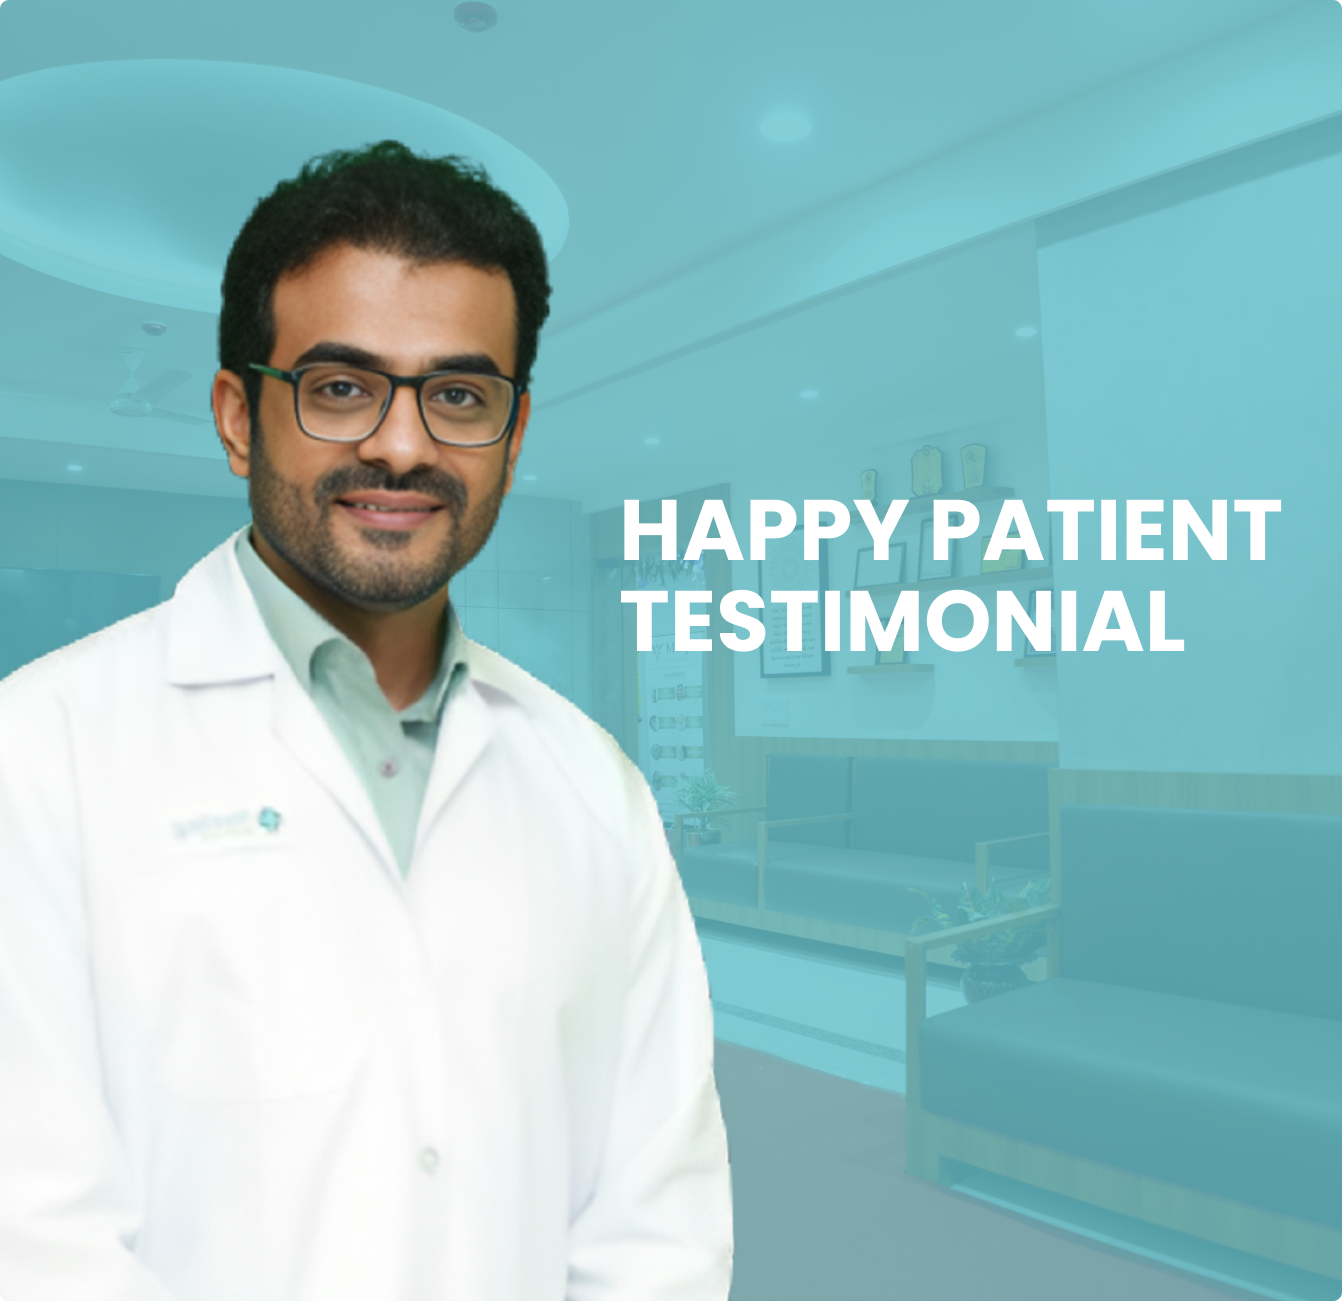
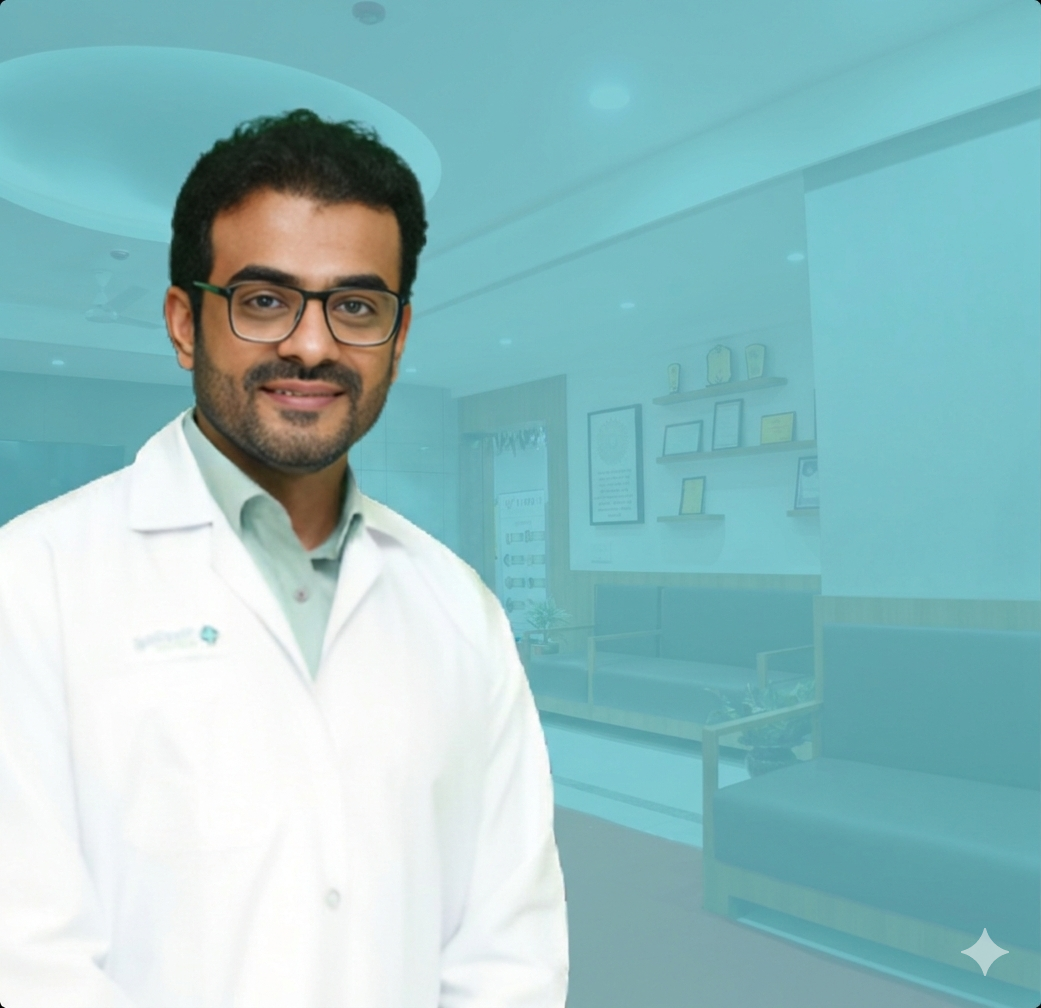
update images -sarman

Changed region(s): [[0.4611, 0.369, 0.9529, 0.5228], [0.9222, 0.9226, 0.9837, 0.9841]]

diff --git a/src/components/about/DoctorProfile.jsx b/src/components/about/DoctorProfile.jsx
@@ -1,5 +1,6 @@
 import { motion } from 'framer-motion'
 import { Award, Users, TrendingUp, Play } from 'lucide-react'
+import img from '../../assets/images/Home/Anand.webp';
 
 export default function DoctorProfile() {
   return (
@@ -15,9 +16,9 @@ export default function DoctorProfile() {
           >
             <div className="absolute -top-6 -left-6 w-full h-full bg-gradient-to-br from-[#3b9dd9]/20 to-[#58c8ca]/20 rounded-3xl -z-10"></div>
             <img
-              src="https://images.unsplash.com/photo-1612349317150-e413f6a5b16d?w=600&h=800&fit=crop"
+              src={img}
               alt="Dr. Anand"
-              className="rounded-3xl shadow-2xl w-full h-[550px] object-cover"
+              className="rounded-3xl shadow-2xl w-full h-[700px] object-cover bg-[#243949]"
             />
             <motion.div 
               className="absolute bottom-8 left-8 right-8 bg-white/95 backdrop-blur-sm p-6 rounded-2xl shadow-xl"

diff --git a/src/components/treatments/DoctorProfile.jsx b/src/components/treatments/DoctorProfile.jsx
@@ -1,5 +1,6 @@
 import { motion } from 'framer-motion'
 import SectionWrapper from './SectionWrapper'
+import img from '../../assets/images/Home/about_img.webp';
 
 export default function DoctorProfile({ data }) {
   return (
@@ -22,9 +23,9 @@ export default function DoctorProfile({ data }) {
             >
               <div className="absolute -top-6 -left-6 w-full h-full bg-gradient-to-br from-[#58c8ca]/20 to-[#4ab4b6]/20 rounded-3xl -z-10"></div>
               <img
-                src={data.image}
+                src={img}
                 alt={data.imageDescription}
-                className="rounded-3xl shadow-2xl w-full h-[500px] object-cover"
+                className="rounded-3xl shadow-2xl w-full h-[600px] object-cover object-top"
               />
             </motion.div>
 

diff --git a/src/components/gastro/AboutSection.jsx b/src/components/gastro/AboutSection.jsx
@@ -1,5 +1,6 @@
 import { motion } from 'framer-motion'
 import SectionWrapper from './SectionWrapper'
+import img from '../../assets/images/Home/team.webp'
 
 export default function AboutSection({ data }) {
   return (
@@ -16,7 +17,7 @@ export default function AboutSection({ data }) {
             >
               <div className="absolute -top-6 -left-6 w-full h-full bg-gradient-to-br from-[#58c8ca]/20 to-[#4ab4b6]/20 rounded-3xl -z-10"></div>
               <img
-                src={data.image}
+                src={img}
                 alt="Gastro Surgery"
                 className="rounded-3xl shadow-2xl w-full h-[500px] object-cover"
               />

diff --git a/src/components/sections/AreaOfExpertise.jsx b/src/components/sections/AreaOfExpertise.jsx
@@ -8,15 +8,15 @@ import img4 from '../../assets/images/logo.png'
 
 const imageMap = {
   1: img1,
-  2: img2,
-  3: img3,
-  4: img4,
+  2: img1,
+  3: img1,
+  4: img1,
   5: img1,
-  6: img2,
-  7: img3,
-  8: img4,
+  6: img1,
+  7: img1,
+  8: img1,
   9: img1,
-  10: img2
+  10: img1
 }
 
 export default function AreaOfExpertise() {
